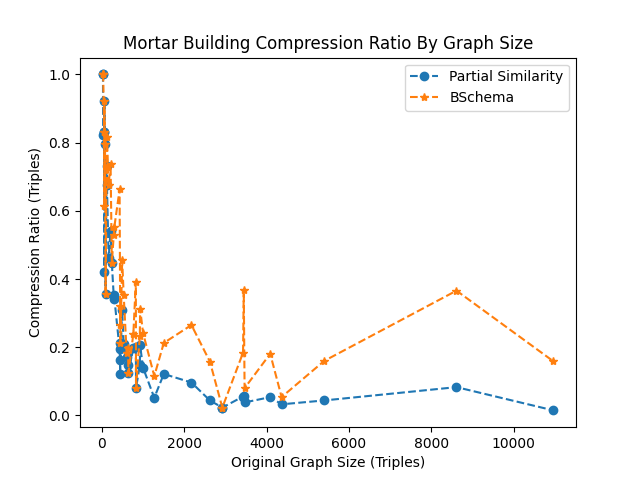
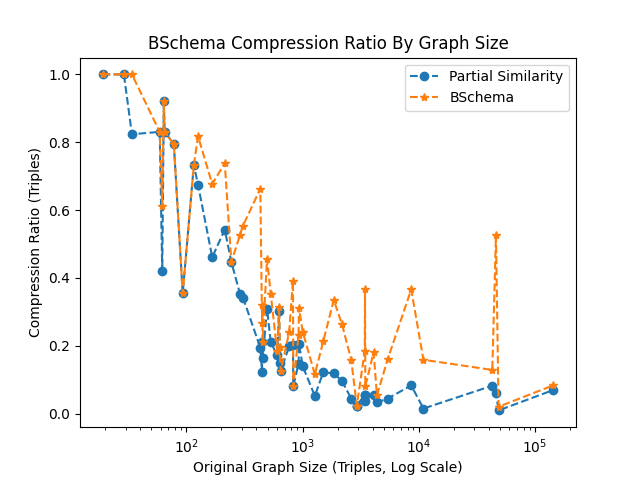
creating some figures

diff --git a/testing/mortar/combined-plot.py b/testing/mortar/combined-plot.py
@@ -11,19 +11,28 @@ cg_lens2 = list(full.bschema_length)
 
 plt.plot(g_lens, cg_lens, marker = 'o',linestyle = '--', color = 'tab:blue', label = "Partial Similarity")
 plt.plot(g_lens2, cg_lens2, marker = '*', color = 'tab:orange', linestyle = '--', label = "BSchema")
-plt.xlabel("Original Graph Size (Triples)")
+
+plt.xscale('log')
+
+plt.xlabel("Original Graph Size (Triples, Log Scale)")
 plt.ylabel("Compressed Graph Size (Triples)")
-plt.title(f"Mortar Building Compression By Graph Size")
+plt.title(f"BSchema Length By Graph Size")
 plt.legend()
 plt.savefig("combined_graph_sizes.png")
 plt.clf()
 plt.plot(g_lens, [(cg_len/g_len) for cg_len, g_len in zip(cg_lens, g_lens)], linestyle = '--', marker =  'o', color = 'tab:blue', label = "Partial Similarity")
 plt.plot(g_lens, [(cg_len/g_len) for cg_len, g_len in zip(cg_lens2, g_lens2)], linestyle = '--', marker = '*', color = 'tab:orange', label = "BSchema")
-plt.xlabel("Original Graph Size (Triples)")
+
+plt.xscale('log')
+
+plt.xlabel("Original Graph Size (Triples, Log Scale)")
 plt.ylabel("Compression Ratio (Triples)")
-plt.title(f"Mortar Building Compression Ratio By Graph Size")
+plt.title(f"BSchema Compression Ratio By Graph Size")
 plt.legend()
 plt.savefig("combined_compression_ratios.png")
 
 print("Weighted Average Compression BSchema: ", sum(cg_lens2)/sum(g_lens2) * 100)
 print("Weighted Average Compression Partial Similarity: ", sum(cg_lens)/sum(g_lens) * 100)
+print("Average Size of Graph: ", sum(g_lens)/len(g_lens))
+print("Average Size of BSchema: ", sum(cg_lens2)/len(cg_lens2))
+print("Average Size of Partial Similarity: ", sum(cg_lens)/len(cg_lens))
